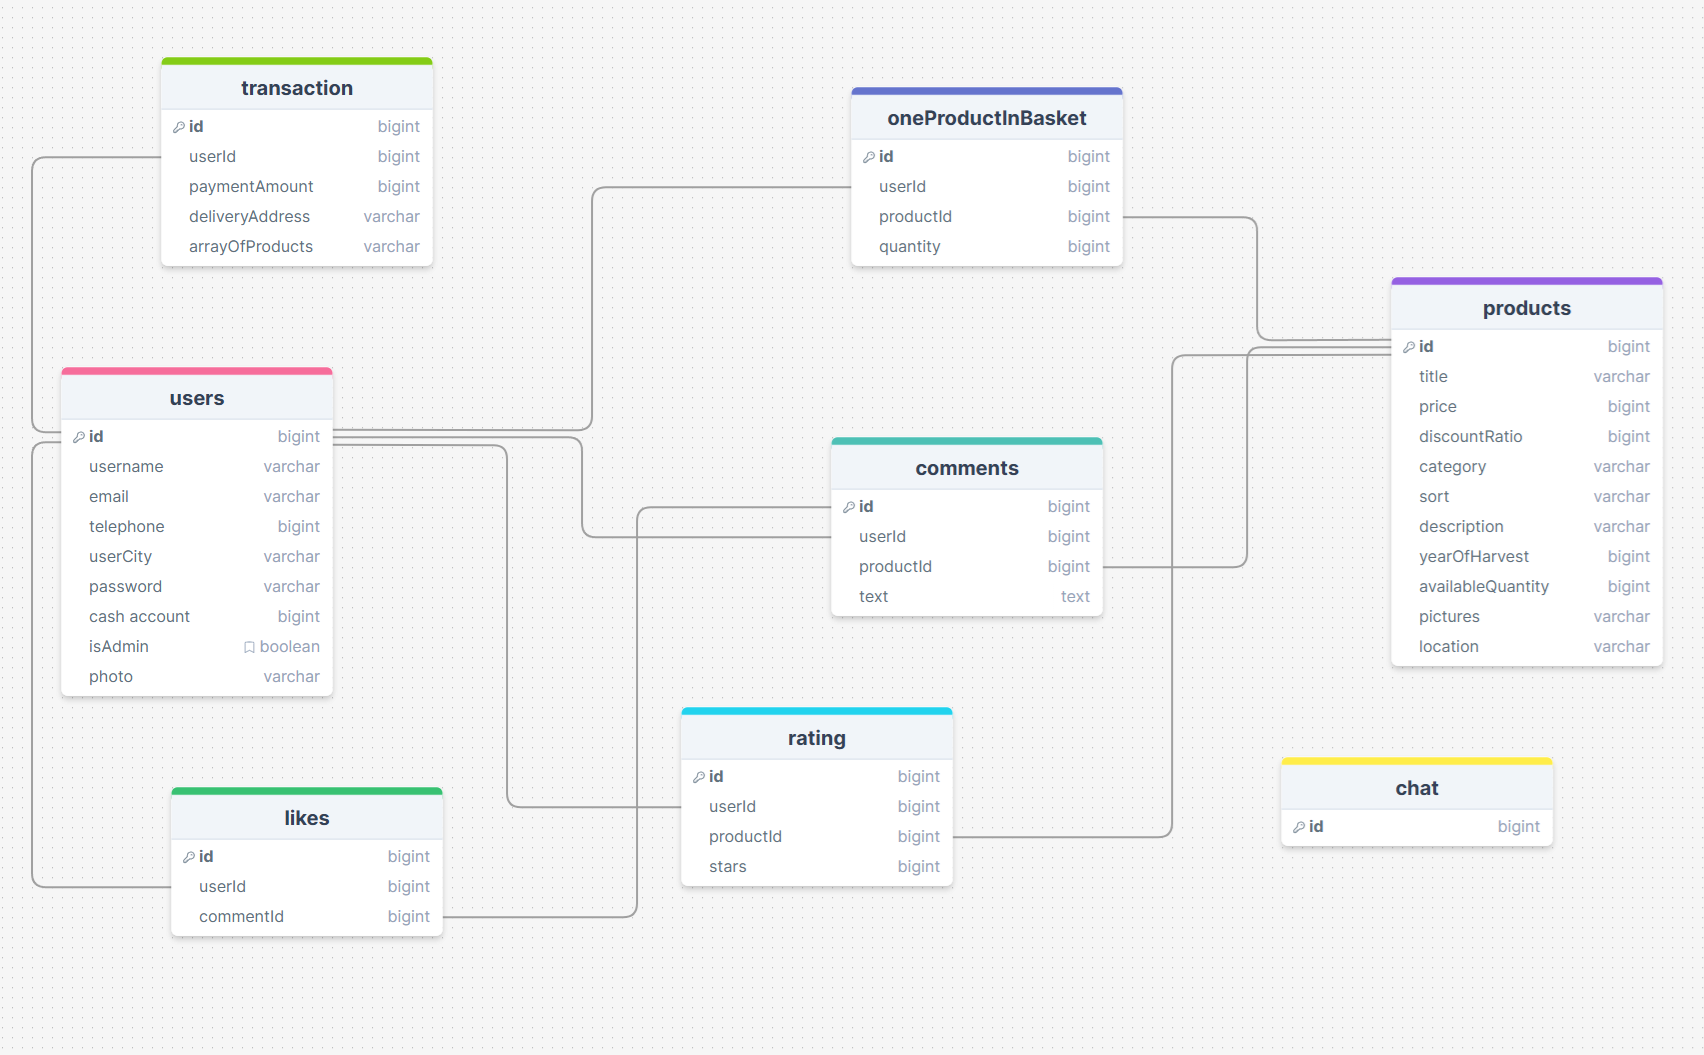
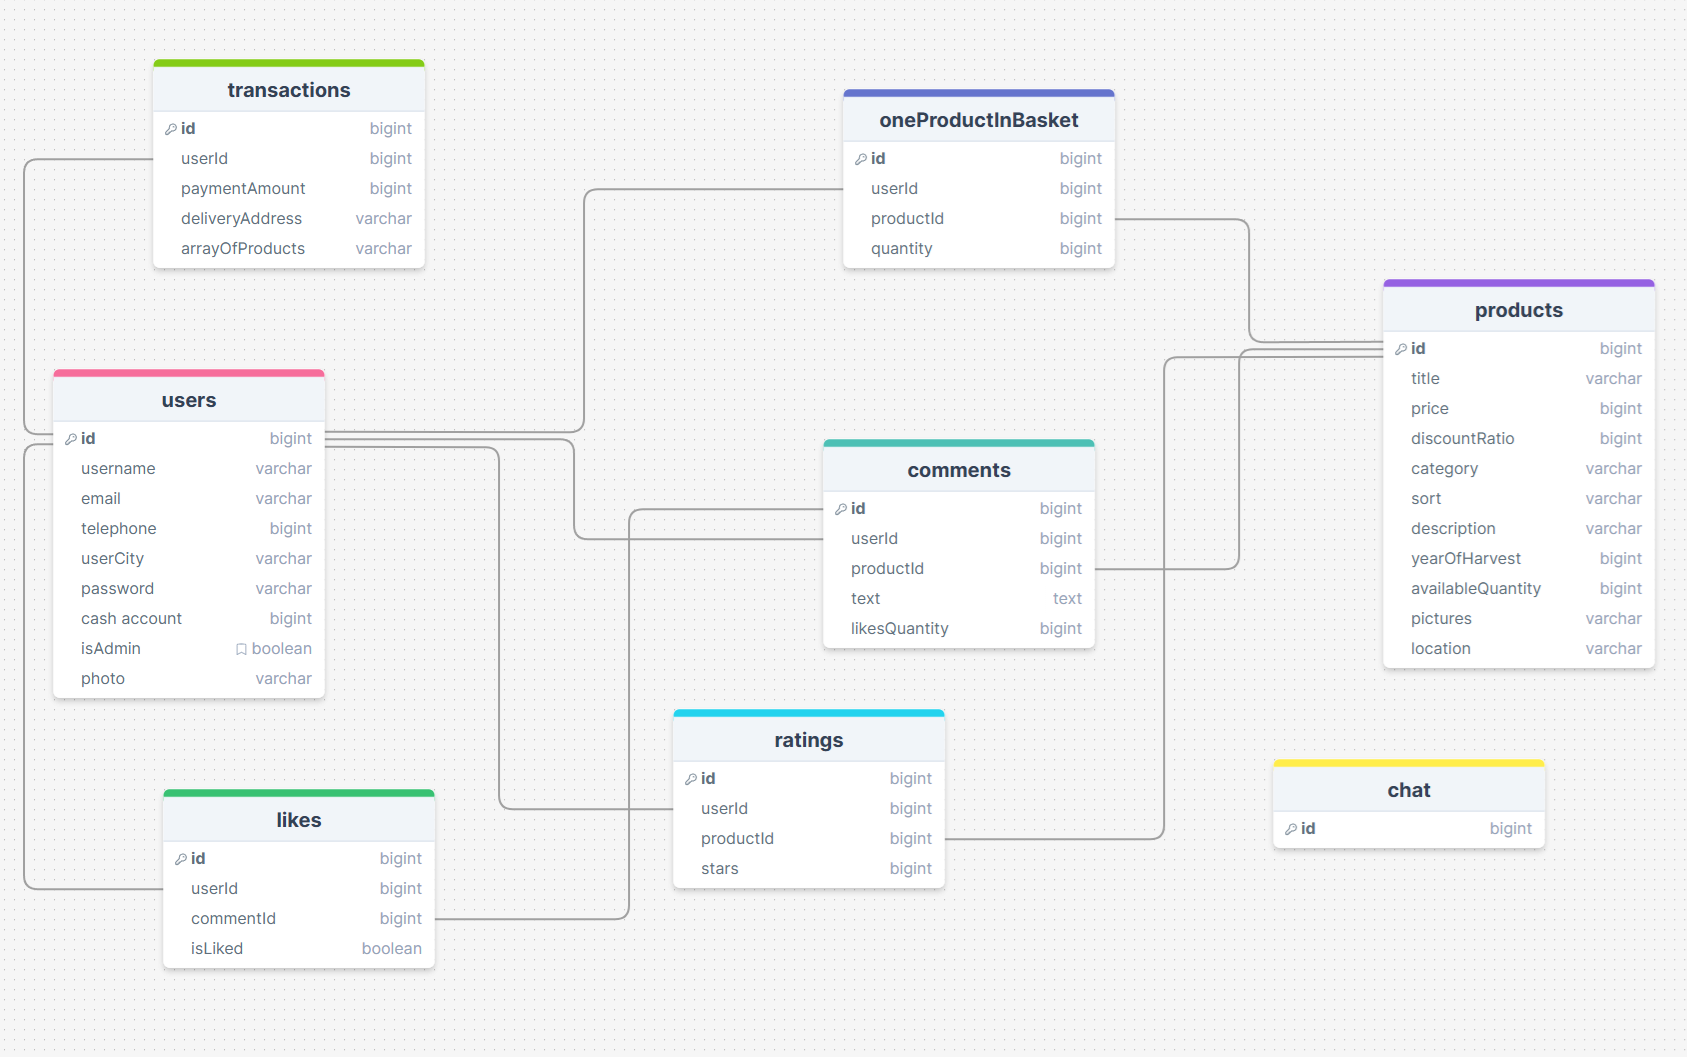
the table likes has been created

diff --git a/server/db/seeders/2-Products.js b/server/db/seeders/2-Products.js
@@ -18,6 +18,7 @@ module.exports = {
           availableQuantity: 100,
           picture: './public/productsPhoto/101.jpeg',
           location: 'Башкирия',
+          starsRating: 4,
         },
         {
           title: 'Бортевый липовый мёд',
@@ -31,6 +32,7 @@ module.exports = {
           availableQuantity: 20,
           picture: './public/productsPhoto/102.jpeg',
           location: 'Башкирия',
+          starsRating: 5,
         },
         {
           title: 'Цветочный мёд',
@@ -43,6 +45,7 @@ module.exports = {
           availableQuantity: 100,
           picture: './public/productsPhoto/103.jpeg',
           location: 'Алтай',
+          starsRating: 3,
         },
         {
           title: 'Таволговый мёд',
@@ -55,6 +58,7 @@ module.exports = {
           availableQuantity: 100,
           picture: './public/productsPhoto/104.jpeg',
           location: 'Алтай',
+          starsRating: 4,
         },
         {
           title: 'Акациевый мёд',
@@ -67,6 +71,7 @@ module.exports = {
           availableQuantity: 60,
           picture: './public/productsPhoto/105.jpeg',
           location: 'Кавказ',
+          starsRating: 5,
         },
         {
           title: 'Цветочный мёд',
@@ -79,6 +84,7 @@ module.exports = {
           availableQuantity: 4,
           picture: './public/productsPhoto/106.jpeg',
           location: 'Кавказ',
+          starsRating: 3,
         },
         {
           title: 'Кипрейный мёд',
@@ -91,6 +97,7 @@ module.exports = {
           availableQuantity: 4,
           picture: './public/productsPhoto/107.jpeg',
           location: 'Башкирия',
+          starsRating: 3,
         },
         {
           title: 'Перга',
@@ -103,6 +110,7 @@ module.exports = {
           availableQuantity: 10,
           picture: './public/productsPhoto/401.jpeg',
           location: 'Кавказ',
+          starsRating: 0,
         },
         {
           title: 'Прополис',
@@ -115,6 +123,7 @@ module.exports = {
           availableQuantity: 50,
           picture: './public/productsPhoto/301.jpeg',
           location: 'Алтай',
+          starsRating: 4,
         },
         {
           title: 'Воск',
@@ -127,6 +136,7 @@ module.exports = {
           availableQuantity: 50,
           picture: './public/productsPhoto/001.jpeg',
           location: 'Кавказ',
+          starsRating: 4,
         },
       ],
       {}

diff --git a/server/db/migrations/9-create-like.js b/server/db/migrations/9-create-like.js
@@ -1,0 +1,53 @@
+'use strict';
+/** @type {import('sequelize-cli').Migration} */
+module.exports = {
+  async up(queryInterface, Sequelize) {
+    await queryInterface.createTable('Likes', {
+      id: {
+        allowNull: false,
+        autoIncrement: true,
+        primaryKey: true,
+        type: Sequelize.INTEGER,
+      },
+      userId: {
+        onDelete: 'cascade',
+        references: {
+          model: {
+            tableName: 'Users',
+          },
+          key: 'id',
+        },
+        allowNull: false,
+        type: Sequelize.INTEGER,
+      },
+      commentId: {
+        onDelete: 'cascade',
+        references: {
+          model: {
+            tableName: 'Comments',
+          },
+          key: 'id',
+        },
+        allowNull: false,
+        type: Sequelize.INTEGER,
+      },
+      isLiked: {
+        allowNull: false,
+        type: Sequelize.BOOLEAN,
+      },
+      createdAt: {
+        allowNull: false,
+        type: Sequelize.DATE,
+        defaultValue: Sequelize.fn('NOW'),
+      },
+      updatedAt: {
+        allowNull: false,
+        type: Sequelize.DATE,
+        defaultValue: Sequelize.fn('NOW'),
+      },
+    });
+  },
+  async down(queryInterface, Sequelize) {
+    await queryInterface.dropTable('Likes');
+  },
+};

diff --git a/server/db/models/like.js b/server/db/models/like.js
@@ -1,0 +1,20 @@
+'use strict';
+
+const { Model } = require('sequelize');
+module.exports = (sequelize, DataTypes) => {
+  class Like extends Model {
+    static associate({}) {}
+  }
+  Like.init(
+    {
+      userId: DataTypes.INTEGER,
+      commentId: DataTypes.INTEGER,
+      isLiked: DataTypes.BOOLEAN,
+    },
+    {
+      sequelize,
+      modelName: 'Like',
+    }
+  );
+  return Like;
+};

diff --git a/server/db/migrations/2-create-product.js b/server/db/migrations/2-create-product.js
@@ -39,6 +39,10 @@ module.exports = {
       location: {
         type: Sequelize.STRING,
       },
+      starsRating: {
+        defaultValue: 0,
+        type: Sequelize.INTEGER,
+      },
       createdAt: {
         allowNull: false,
         defaultValue: Sequelize.fn("NOW"),

diff --git a/server/db/models/product.js b/server/db/models/product.js
@@ -17,6 +17,7 @@ module.exports = (sequelize, DataTypes) => {
       availableQuantity: DataTypes.INTEGER,
       picture: DataTypes.STRING,
       location: DataTypes.STRING,
+      starsRating: DataTypes.INTEGER,
     },
     {
       sequelize,

diff --git a/client/src/pages/Shop/Shop.tsx b/client/src/pages/Shop/Shop.tsx
@@ -1,0 +1,20 @@
+
+// import React, { useState } from 'react';
+// // import { useNavigate } from 'react-router-dom';
+
+
+// export default function Shop(): React.FC {
+
+
+
+
+
+
+
+//   return (
+//     <>
+      
+//     </>
+//   );
+// };
+
